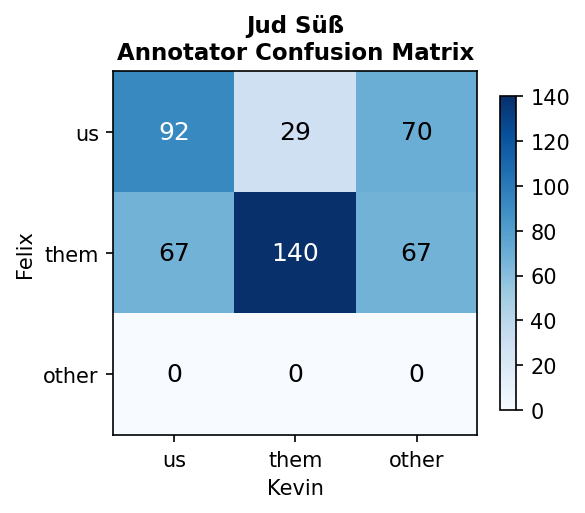
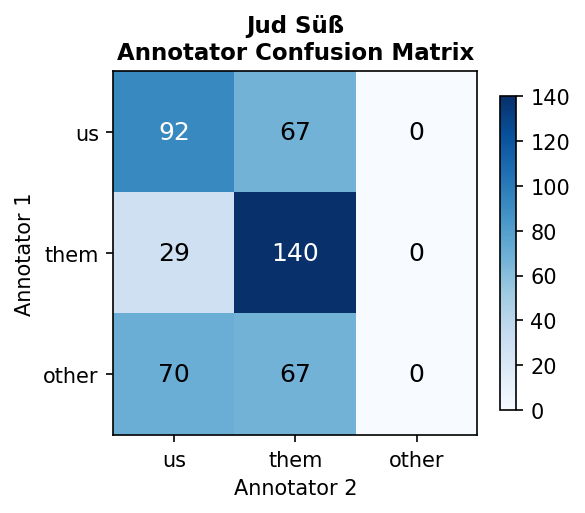
replaced annotator names

Changed region(s): [[0.1846, 0.1248, 0.8308, 0.8733], [0.0308, 0.3743, 0.0615, 0.6238], [0.4, 0.9357, 0.6154, 0.9669]]

diff --git a/scripts/annotation_stats.py b/scripts/annotation_stats.py
@@ -46,9 +46,12 @@ ANNOTATION_FILES = [
     ("Hans Westmar", "../data/annotated/kevin/hans_westmar_annotations.csv")
 ]
 
-# Name to fill in for annotations with missing annotator
-DEFAULT_ANNOTATOR_NAME = "annotator_2"
-
+# Annotator Mappings
+#DEFAULT_ANNOTATOR_NAME = "annotator_2"
+ANNOTATOR_ALIASES = {
+    "Kevin" : "Annotator 1",
+    "Felix" : "Annotator 2"
+}
 # Default label for frames with missing labels (applied in-memory only, not saved)
 DEFAULT_LABEL = "other"
 
@@ -68,11 +71,13 @@ def load_annotations(annotation_files):
         df = pd.read_csv(csv_path)
 
         # Fill missing annotator names and save back to original file
-        if df["annotator"].isna().any():
-            df["annotator"] = df["annotator"].fillna(DEFAULT_ANNOTATOR_NAME)
-            df.to_csv(csv_path, index=False)
-            print(f"Filled missing annotator names in '{csv_path}' with '{DEFAULT_ANNOTATOR_NAME}'")
+        #if df["annotator"].isna().any():
+        #    df["annotator"] = df["annotator"].fillna(DEFAULT_ANNOTATOR_NAME)
+        #    df.to_csv(csv_path, index=False)
+        #    print(f"Filled missing annotator names in '{csv_path}' with '{DEFAULT_ANNOTATOR_NAME}'")
 
+        # Replace annotator names with aliases
+        df["annotator"] = df["annotator"].map(ANNOTATOR_ALIASES).fillna(df["annotator"])
         df["film"] = film_name
 
         # Fill missing labels in-memory only (not saved back)
